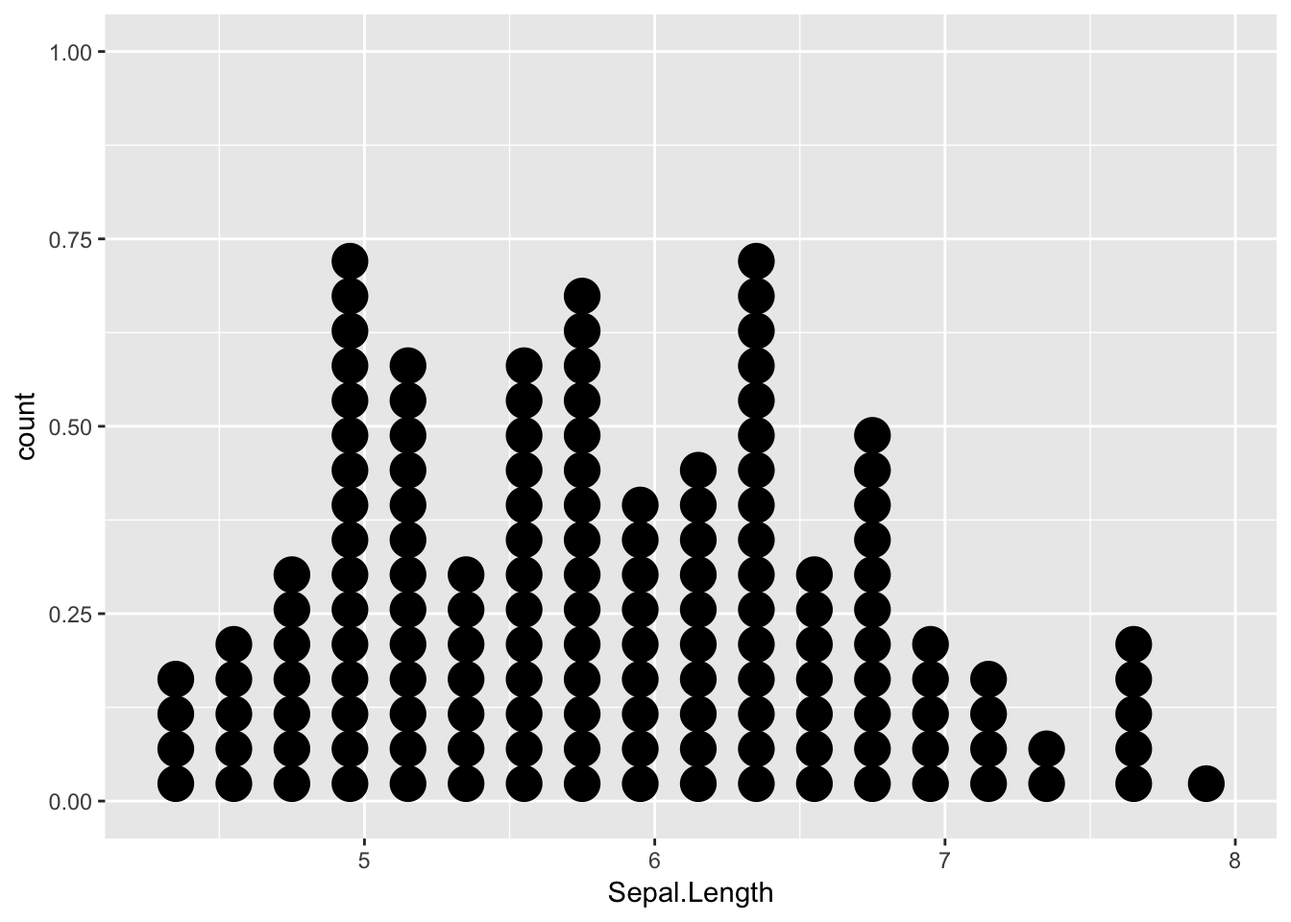
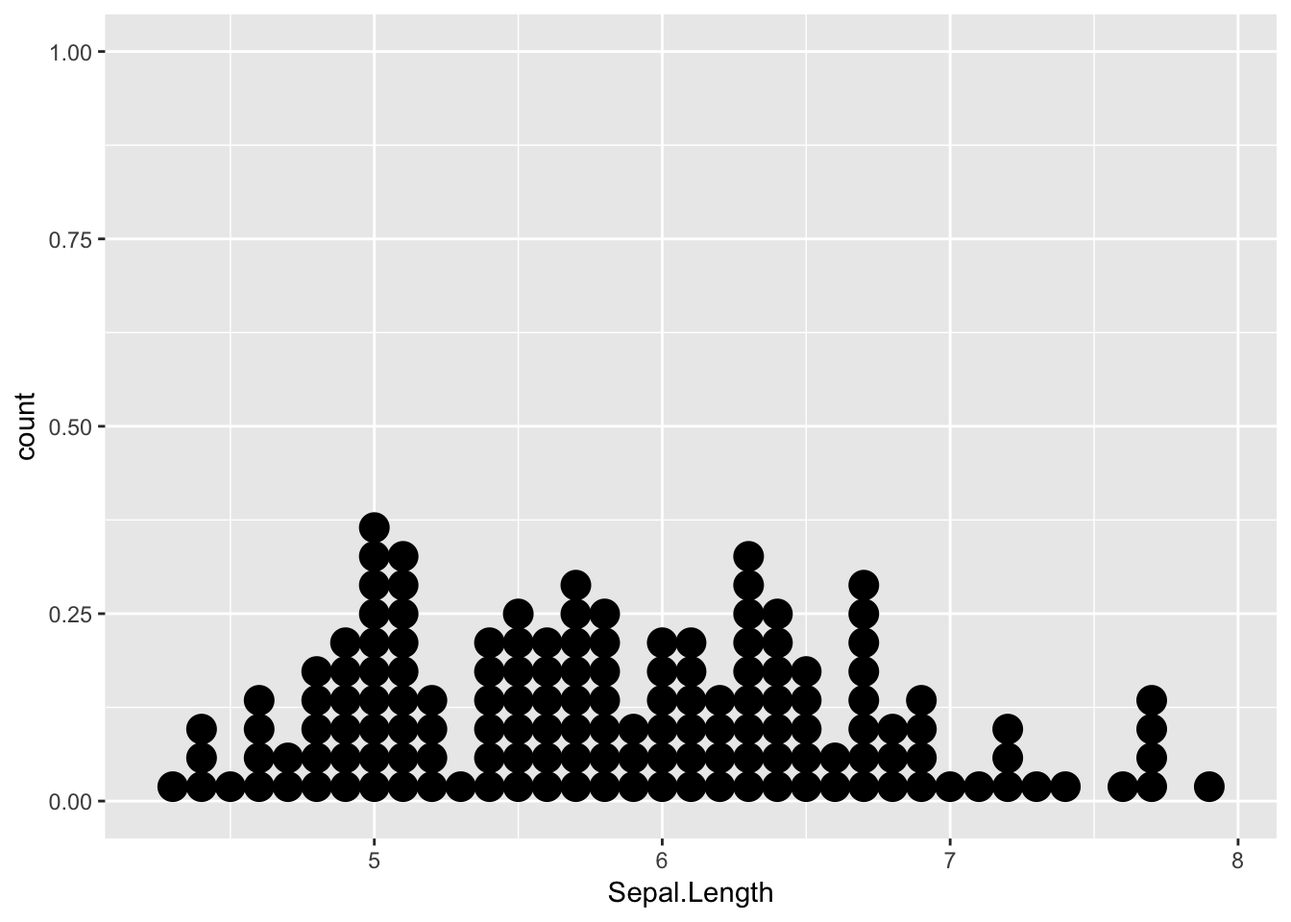
Update graphs.

diff --git a/docs/graphs.html b/docs/graphs.html
@@ -25,7 +25,7 @@
 <meta name="author" content="Lehman Sociology">
 
 
-<meta name="date" content="2017-10-18">
+<meta name="date" content="2017-10-19">
 
   <meta name="viewport" content="width=device-width, initial-scale=1">
   <meta name="apple-mobile-web-app-capable" content="yes">
@@ -130,8 +130,8 @@ code > span.in { color: #60a0b0; font-weight: bold; font-style: italic; } /* Inf
 <li class="chapter" data-level="6" data-path="graphs.html"><a href="graphs.html"><i class="fa fa-check"></i><b>6</b> Graphs</a><ul>
 <li class="chapter" data-level="6.1" data-path="graphs.html"><a href="graphs.html#how-ggplot-works"><i class="fa fa-check"></i><b>6.1</b> How ggplot works</a><ul>
 <li class="chapter" data-level="6.1.1" data-path="graphs.html"><a href="graphs.html#ggplot"><i class="fa fa-check"></i><b>6.1.1</b> ggplot()</a></li>
-<li class="chapter" data-level="6.1.2" data-path="graphs.html"><a href="graphs.html#adding-geom_s"><i class="fa fa-check"></i><b>6.1.2</b> Adding geom_s</a></li>
-<li class="chapter" data-level="6.1.3" data-path="graphs.html"><a href="graphs.html#add-titles-and-labels"><i class="fa fa-check"></i><b>6.1.3</b> Add titles and labels</a></li>
+<li class="chapter" data-level="6.1.2" data-path="graphs.html"><a href="graphs.html#adding-geom"><i class="fa fa-check"></i><b>6.1.2</b> Adding geom</a></li>
+<li class="chapter" data-level="6.1.3" data-path="graphs.html"><a href="graphs.html#add-titles-and-labels-modify-axes"><i class="fa fa-check"></i><b>6.1.3</b> Add titles and labels, modify axes</a></li>
 </ul></li>
 <li class="chapter" data-level="6.2" data-path="graphs.html"><a href="graphs.html#common-problems"><i class="fa fa-check"></i><b>6.2</b> Common problems</a><ul>
 <li class="chapter" data-level="6.2.1" data-path="graphs.html"><a href="graphs.html#unexpected-symbol"><i class="fa fa-check"></i><b>6.2.1</b> unexpected symbol</a></li>
@@ -180,16 +180,15 @@ code > span.in { color: #60a0b0; font-weight: bold; font-style: italic; } /* Inf
 <div class="sourceCode"><pre class="sourceCode r"><code class="sourceCode r"><span class="kw">ggplot</span>(iris, <span class="kw">aes</span>(<span class="dt">x =</span> Species, <span class="dt">y =</span> Sepal.Width))</code></pre></div>
 <p><img src="06-Graphs_files/figure-html/unnamed-chunk-1-3.png" width="672" /></p>
 </div>
-<div id="adding-geom_s" class="section level3">
-<h3><span class="header-section-number">6.1.2</span> Adding geom_s</h3>
+<div id="adding-geom" class="section level3">
+<h3><span class="header-section-number">6.1.2</span> Adding geom</h3>
 <p>To add data to the axes you use a “geom” that determines the type of display. The geom does not modify the axis, it adds data to it. To show this, let’s save the ggplot information and add to it.</p>
-<p>Our first example is only for one variable.</p>
+<p>Our first example is only for one variable. Often, you will want to add options such as binwidth.</p>
 <div class="sourceCode"><pre class="sourceCode r"><code class="sourceCode r">graph1 &lt;-<span class="st"> </span><span class="kw">ggplot</span>(iris, <span class="kw">aes</span>(<span class="dt">x =</span> Sepal.Length))  
 graph1 +<span class="st"> </span><span class="kw">geom_histogram</span>()</code></pre></div>
 <pre><code>## `stat_bin()` using `bins = 30`. Pick better value with `binwidth`.</code></pre>
 <p><img src="06-Graphs_files/figure-html/unnamed-chunk-2-1.png" width="672" /></p>
-<div class="sourceCode"><pre class="sourceCode r"><code class="sourceCode r">graph1 +<span class="st"> </span><span class="kw">geom_dotplot</span>()</code></pre></div>
-<pre><code>## `stat_bindot()` using `bins = 30`. Pick better value with `binwidth`.</code></pre>
+<div class="sourceCode"><pre class="sourceCode r"><code class="sourceCode r">graph1 +<span class="st"> </span><span class="kw">geom_dotplot</span>(<span class="dt">binwidth =</span> .<span class="dv">1</span>)</code></pre></div>
 <p><img src="06-Graphs_files/figure-html/unnamed-chunk-2-2.png" width="672" /></p>
 <div class="sourceCode"><pre class="sourceCode r"><code class="sourceCode r">graph1 +<span class="st"> </span><span class="kw">geom_bar</span>()</code></pre></div>
 <p><img src="06-Graphs_files/figure-html/unnamed-chunk-2-3.png" width="672" /></p>
@@ -203,25 +202,38 @@ graph2 +<span class="st"> </span><span class="kw">geom_point</span>()</code></pr
 <div class="sourceCode"><pre class="sourceCode r"><code class="sourceCode r">graph2 +<span class="st"> </span><span class="kw">geom_point</span>() +<span class="st"> </span><span class="kw">geom_smooth</span>()</code></pre></div>
 <pre><code>## `geom_smooth()` using method = &#39;loess&#39;</code></pre>
 <p><img src="06-Graphs_files/figure-html/unnamed-chunk-3-2.png" width="672" /></p>
+<div class="sourceCode"><pre class="sourceCode r"><code class="sourceCode r">graph2_with_species &lt;-<span class="st"> </span><span class="kw">ggplot</span>(iris, <span class="kw">aes</span>(<span class="dt">x =</span> Sepal.Length, <span class="dt">y =</span> Sepal.Width, <span class="dt">color =</span> Species)) +<span class="st"> </span><span class="kw">geom_point</span>()
+graph2_with_species</code></pre></div>
+<p><img src="06-Graphs_files/figure-html/unnamed-chunk-3-3.png" width="672" /></p>
 <p>This data includes two types of data. The last example shows how multiple geoms can be combined.</p>
 <div class="sourceCode"><pre class="sourceCode r"><code class="sourceCode r">graph3 &lt;-<span class="st"> </span><span class="kw">ggplot</span>(iris, <span class="kw">aes</span>(<span class="dt">x =</span> Species, <span class="dt">y =</span> Sepal.Width))
 
 graph3 +<span class="st"> </span><span class="kw">geom_point</span>()</code></pre></div>
 <p><img src="06-Graphs_files/figure-html/unnamed-chunk-4-1.png" width="672" /></p>
-<div class="sourceCode"><pre class="sourceCode r"><code class="sourceCode r">graph3 +<span class="st"> </span><span class="kw">geom_jitter</span>()</code></pre></div>
+<div class="sourceCode"><pre class="sourceCode r"><code class="sourceCode r">graph3 +<span class="st"> </span><span class="kw">geom_count</span>()</code></pre></div>
 <p><img src="06-Graphs_files/figure-html/unnamed-chunk-4-2.png" width="672" /></p>
-<div class="sourceCode"><pre class="sourceCode r"><code class="sourceCode r">graph3 +<span class="st"> </span><span class="kw">geom_boxplot</span>()</code></pre></div>
+<div class="sourceCode"><pre class="sourceCode r"><code class="sourceCode r">graph3 +<span class="st"> </span><span class="kw">geom_jitter</span>()</code></pre></div>
 <p><img src="06-Graphs_files/figure-html/unnamed-chunk-4-3.png" width="672" /></p>
-<div class="sourceCode"><pre class="sourceCode r"><code class="sourceCode r">graph3 +<span class="st"> </span><span class="kw">geom_boxplot</span>() +<span class="st"> </span><span class="kw">geom_jitter</span>()</code></pre></div>
+<div class="sourceCode"><pre class="sourceCode r"><code class="sourceCode r">graph3 +<span class="st"> </span><span class="kw">geom_boxplot</span>()</code></pre></div>
 <p><img src="06-Graphs_files/figure-html/unnamed-chunk-4-4.png" width="672" /></p>
+<div class="sourceCode"><pre class="sourceCode r"><code class="sourceCode r">graph3 +<span class="st"> </span><span class="kw">geom_boxplot</span>() +<span class="st"> </span><span class="kw">geom_jitter</span>()</code></pre></div>
+<p><img src="06-Graphs_files/figure-html/unnamed-chunk-4-5.png" width="672" /></p>
 </div>
-<div id="add-titles-and-labels" class="section level3">
-<h3><span class="header-section-number">6.1.3</span> Add titles and labels</h3>
-<p>There are many additional options that you can use. This document will just show how to add a title and labels.</p>
+<div id="add-titles-and-labels-modify-axes" class="section level3">
+<h3><span class="header-section-number">6.1.3</span> Add titles and labels, modify axes</h3>
+<p>There are many additional options that you can use. This document will just show how to add a title and labels and modify axes.</p>
 <div class="sourceCode"><pre class="sourceCode r"><code class="sourceCode r">graph3 +<span class="st"> </span><span class="kw">geom_jitter</span>() +
 <span class="st">        </span><span class="kw">ggtitle</span>(<span class="st">&quot;Sepal Width by Species in the Iris Data&quot;</span>) +
 <span class="st">        </span><span class="kw">labs</span>(<span class="dt">y=</span><span class="st">&quot;Sepal Width&quot;</span>, <span class="dt">x=</span><span class="st">&quot;Iris Species&quot;</span>)  </code></pre></div>
 <p><img src="06-Graphs_files/figure-html/unnamed-chunk-5-1.png" width="672" /></p>
+<p>The way to modify axes is to use <code>scale_y_continuous</code> and <code>scale_x_continuous</code>. These are very flexible and have many options. This section will show how to change or improve some of the previous plots.</p>
+<div class="sourceCode"><pre class="sourceCode r"><code class="sourceCode r"><span class="co"># Remove irrelevant y axis values</span>
+graph1 +<span class="st"> </span><span class="kw">geom_dotplot</span>(<span class="dt">binwidth =</span> .<span class="dv">1</span>) +
+<span class="st">         </span><span class="kw">scale_y_continuous</span>(<span class="ot">NULL</span>, <span class="dt">breaks =</span> <span class="ot">NULL</span>)</code></pre></div>
+<p><img src="06-Graphs_files/figure-html/unnamed-chunk-6-1.png" width="672" /></p>
+<div class="sourceCode"><pre class="sourceCode r"><code class="sourceCode r"><span class="co"># Use the same tick marks on the x axis match those on the y axis</span>
+graph2 +<span class="st"> </span><span class="kw">geom_point</span>() +<span class="st"> </span><span class="kw">scale_x_continuous</span>( <span class="dt">breaks =</span> <span class="kw">seq</span>(<span class="dv">4</span>, <span class="dv">8</span>, .<span class="dv">5</span>), <span class="dt">minor_breaks =</span> <span class="kw">waiver</span>())</code></pre></div>
+<p><img src="06-Graphs_files/figure-html/unnamed-chunk-6-2.png" width="672" /></p>
 <p>There are several websites that give detailed examples of more complex ways to create visualizations.</p>
 </div>
 </div>

diff --git a/docs/index.html b/docs/index.html
@@ -25,7 +25,7 @@
 <meta name="author" content="Lehman Sociology">
 
 
-<meta name="date" content="2017-10-18">
+<meta name="date" content="2017-10-19">
 
   <meta name="viewport" content="width=device-width, initial-scale=1">
   <meta name="apple-mobile-web-app-capable" content="yes">
@@ -130,8 +130,8 @@ code > span.in { color: #60a0b0; font-weight: bold; font-style: italic; } /* Inf
 <li class="chapter" data-level="6" data-path="graphs.html"><a href="graphs.html"><i class="fa fa-check"></i><b>6</b> Graphs</a><ul>
 <li class="chapter" data-level="6.1" data-path="graphs.html"><a href="graphs.html#how-ggplot-works"><i class="fa fa-check"></i><b>6.1</b> How ggplot works</a><ul>
 <li class="chapter" data-level="6.1.1" data-path="graphs.html"><a href="graphs.html#ggplot"><i class="fa fa-check"></i><b>6.1.1</b> ggplot()</a></li>
-<li class="chapter" data-level="6.1.2" data-path="graphs.html"><a href="graphs.html#adding-geom_s"><i class="fa fa-check"></i><b>6.1.2</b> Adding geom_s</a></li>
-<li class="chapter" data-level="6.1.3" data-path="graphs.html"><a href="graphs.html#add-titles-and-labels"><i class="fa fa-check"></i><b>6.1.3</b> Add titles and labels</a></li>
+<li class="chapter" data-level="6.1.2" data-path="graphs.html"><a href="graphs.html#adding-geom"><i class="fa fa-check"></i><b>6.1.2</b> Adding geom</a></li>
+<li class="chapter" data-level="6.1.3" data-path="graphs.html"><a href="graphs.html#add-titles-and-labels-modify-axes"><i class="fa fa-check"></i><b>6.1.3</b> Add titles and labels, modify axes</a></li>
 </ul></li>
 <li class="chapter" data-level="6.2" data-path="graphs.html"><a href="graphs.html#common-problems"><i class="fa fa-check"></i><b>6.2</b> Common problems</a><ul>
 <li class="chapter" data-level="6.2.1" data-path="graphs.html"><a href="graphs.html#unexpected-symbol"><i class="fa fa-check"></i><b>6.2.1</b> unexpected symbol</a></li>
@@ -163,7 +163,7 @@ code > span.in { color: #60a0b0; font-weight: bold; font-style: italic; } /* Inf
 <div id="header">
 <h1 class="title">A Little R Book for Lehman Sociology Students</h1>
 <h4 class="author"><em>Lehman Sociology</em></h4>
-<h4 class="date"><em>2017-10-18</em></h4>
+<h4 class="date"><em>2017-10-19</em></h4>
 </div>
 <div id="preface" class="section level1 unnumbered">
 <h1>Preface</h1>

diff --git a/docs/code.html b/docs/code.html
@@ -25,7 +25,7 @@
 <meta name="author" content="Lehman Sociology">
 
 
-<meta name="date" content="2017-10-18">
+<meta name="date" content="2017-10-19">
 
   <meta name="viewport" content="width=device-width, initial-scale=1">
   <meta name="apple-mobile-web-app-capable" content="yes">
@@ -130,8 +130,8 @@ code > span.in { color: #60a0b0; font-weight: bold; font-style: italic; } /* Inf
 <li class="chapter" data-level="6" data-path="graphs.html"><a href="graphs.html"><i class="fa fa-check"></i><b>6</b> Graphs</a><ul>
 <li class="chapter" data-level="6.1" data-path="graphs.html"><a href="graphs.html#how-ggplot-works"><i class="fa fa-check"></i><b>6.1</b> How ggplot works</a><ul>
 <li class="chapter" data-level="6.1.1" data-path="graphs.html"><a href="graphs.html#ggplot"><i class="fa fa-check"></i><b>6.1.1</b> ggplot()</a></li>
-<li class="chapter" data-level="6.1.2" data-path="graphs.html"><a href="graphs.html#adding-geom_s"><i class="fa fa-check"></i><b>6.1.2</b> Adding geom_s</a></li>
-<li class="chapter" data-level="6.1.3" data-path="graphs.html"><a href="graphs.html#add-titles-and-labels"><i class="fa fa-check"></i><b>6.1.3</b> Add titles and labels</a></li>
+<li class="chapter" data-level="6.1.2" data-path="graphs.html"><a href="graphs.html#adding-geom"><i class="fa fa-check"></i><b>6.1.2</b> Adding geom</a></li>
+<li class="chapter" data-level="6.1.3" data-path="graphs.html"><a href="graphs.html#add-titles-and-labels-modify-axes"><i class="fa fa-check"></i><b>6.1.3</b> Add titles and labels, modify axes</a></li>
 </ul></li>
 <li class="chapter" data-level="6.2" data-path="graphs.html"><a href="graphs.html#common-problems"><i class="fa fa-check"></i><b>6.2</b> Common problems</a><ul>
 <li class="chapter" data-level="6.2.1" data-path="graphs.html"><a href="graphs.html#unexpected-symbol"><i class="fa fa-check"></i><b>6.2.1</b> unexpected symbol</a></li>

diff --git a/docs/errors.html b/docs/errors.html
@@ -25,7 +25,7 @@
 <meta name="author" content="Lehman Sociology">
 
 
-<meta name="date" content="2017-10-18">
+<meta name="date" content="2017-10-19">
 
   <meta name="viewport" content="width=device-width, initial-scale=1">
   <meta name="apple-mobile-web-app-capable" content="yes">
@@ -130,8 +130,8 @@ code > span.in { color: #60a0b0; font-weight: bold; font-style: italic; } /* Inf
 <li class="chapter" data-level="6" data-path="graphs.html"><a href="graphs.html"><i class="fa fa-check"></i><b>6</b> Graphs</a><ul>
 <li class="chapter" data-level="6.1" data-path="graphs.html"><a href="graphs.html#how-ggplot-works"><i class="fa fa-check"></i><b>6.1</b> How ggplot works</a><ul>
 <li class="chapter" data-level="6.1.1" data-path="graphs.html"><a href="graphs.html#ggplot"><i class="fa fa-check"></i><b>6.1.1</b> ggplot()</a></li>
-<li class="chapter" data-level="6.1.2" data-path="graphs.html"><a href="graphs.html#adding-geom_s"><i class="fa fa-check"></i><b>6.1.2</b> Adding geom_s</a></li>
-<li class="chapter" data-level="6.1.3" data-path="graphs.html"><a href="graphs.html#add-titles-and-labels"><i class="fa fa-check"></i><b>6.1.3</b> Add titles and labels</a></li>
+<li class="chapter" data-level="6.1.2" data-path="graphs.html"><a href="graphs.html#adding-geom"><i class="fa fa-check"></i><b>6.1.2</b> Adding geom</a></li>
+<li class="chapter" data-level="6.1.3" data-path="graphs.html"><a href="graphs.html#add-titles-and-labels-modify-axes"><i class="fa fa-check"></i><b>6.1.3</b> Add titles and labels, modify axes</a></li>
 </ul></li>
 <li class="chapter" data-level="6.2" data-path="graphs.html"><a href="graphs.html#common-problems"><i class="fa fa-check"></i><b>6.2</b> Common problems</a><ul>
 <li class="chapter" data-level="6.2.1" data-path="graphs.html"><a href="graphs.html#unexpected-symbol"><i class="fa fa-check"></i><b>6.2.1</b> unexpected symbol</a></li>

diff --git a/docs/introduction.html b/docs/introduction.html
@@ -25,7 +25,7 @@
 <meta name="author" content="Lehman Sociology">
 
 
-<meta name="date" content="2017-10-18">
+<meta name="date" content="2017-10-19">
 
   <meta name="viewport" content="width=device-width, initial-scale=1">
   <meta name="apple-mobile-web-app-capable" content="yes">
@@ -130,8 +130,8 @@ code > span.in { color: #60a0b0; font-weight: bold; font-style: italic; } /* Inf
 <li class="chapter" data-level="6" data-path="graphs.html"><a href="graphs.html"><i class="fa fa-check"></i><b>6</b> Graphs</a><ul>
 <li class="chapter" data-level="6.1" data-path="graphs.html"><a href="graphs.html#how-ggplot-works"><i class="fa fa-check"></i><b>6.1</b> How ggplot works</a><ul>
 <li class="chapter" data-level="6.1.1" data-path="graphs.html"><a href="graphs.html#ggplot"><i class="fa fa-check"></i><b>6.1.1</b> ggplot()</a></li>
-<li class="chapter" data-level="6.1.2" data-path="graphs.html"><a href="graphs.html#adding-geom_s"><i class="fa fa-check"></i><b>6.1.2</b> Adding geom_s</a></li>
-<li class="chapter" data-level="6.1.3" data-path="graphs.html"><a href="graphs.html#add-titles-and-labels"><i class="fa fa-check"></i><b>6.1.3</b> Add titles and labels</a></li>
+<li class="chapter" data-level="6.1.2" data-path="graphs.html"><a href="graphs.html#adding-geom"><i class="fa fa-check"></i><b>6.1.2</b> Adding geom</a></li>
+<li class="chapter" data-level="6.1.3" data-path="graphs.html"><a href="graphs.html#add-titles-and-labels-modify-axes"><i class="fa fa-check"></i><b>6.1.3</b> Add titles and labels, modify axes</a></li>
 </ul></li>
 <li class="chapter" data-level="6.2" data-path="graphs.html"><a href="graphs.html#common-problems"><i class="fa fa-check"></i><b>6.2</b> Common problems</a><ul>
 <li class="chapter" data-level="6.2.1" data-path="graphs.html"><a href="graphs.html#unexpected-symbol"><i class="fa fa-check"></i><b>6.2.1</b> unexpected symbol</a></li>

diff --git a/docs/other.html b/docs/other.html
@@ -25,7 +25,7 @@
 <meta name="author" content="Lehman Sociology">
 
 
-<meta name="date" content="2017-10-18">
+<meta name="date" content="2017-10-19">
 
   <meta name="viewport" content="width=device-width, initial-scale=1">
   <meta name="apple-mobile-web-app-capable" content="yes">
@@ -130,8 +130,8 @@ code > span.in { color: #60a0b0; font-weight: bold; font-style: italic; } /* Inf
 <li class="chapter" data-level="6" data-path="graphs.html"><a href="graphs.html"><i class="fa fa-check"></i><b>6</b> Graphs</a><ul>
 <li class="chapter" data-level="6.1" data-path="graphs.html"><a href="graphs.html#how-ggplot-works"><i class="fa fa-check"></i><b>6.1</b> How ggplot works</a><ul>
 <li class="chapter" data-level="6.1.1" data-path="graphs.html"><a href="graphs.html#ggplot"><i class="fa fa-check"></i><b>6.1.1</b> ggplot()</a></li>
-<li class="chapter" data-level="6.1.2" data-path="graphs.html"><a href="graphs.html#adding-geom_s"><i class="fa fa-check"></i><b>6.1.2</b> Adding geom_s</a></li>
-<li class="chapter" data-level="6.1.3" data-path="graphs.html"><a href="graphs.html#add-titles-and-labels"><i class="fa fa-check"></i><b>6.1.3</b> Add titles and labels</a></li>
+<li class="chapter" data-level="6.1.2" data-path="graphs.html"><a href="graphs.html#adding-geom"><i class="fa fa-check"></i><b>6.1.2</b> Adding geom</a></li>
+<li class="chapter" data-level="6.1.3" data-path="graphs.html"><a href="graphs.html#add-titles-and-labels-modify-axes"><i class="fa fa-check"></i><b>6.1.3</b> Add titles and labels, modify axes</a></li>
 </ul></li>
 <li class="chapter" data-level="6.2" data-path="graphs.html"><a href="graphs.html#common-problems"><i class="fa fa-check"></i><b>6.2</b> Common problems</a><ul>
 <li class="chapter" data-level="6.2.1" data-path="graphs.html"><a href="graphs.html#unexpected-symbol"><i class="fa fa-check"></i><b>6.2.1</b> unexpected symbol</a></li>

diff --git a/docs/statistical-functions-for-one-variable.html b/docs/statistical-functions-for-one-variable.html
@@ -25,7 +25,7 @@
 <meta name="author" content="Lehman Sociology">
 
 
-<meta name="date" content="2017-10-18">
+<meta name="date" content="2017-10-19">
 
   <meta name="viewport" content="width=device-width, initial-scale=1">
   <meta name="apple-mobile-web-app-capable" content="yes">
@@ -130,8 +130,8 @@ code > span.in { color: #60a0b0; font-weight: bold; font-style: italic; } /* Inf
 <li class="chapter" data-level="6" data-path="graphs.html"><a href="graphs.html"><i class="fa fa-check"></i><b>6</b> Graphs</a><ul>
 <li class="chapter" data-level="6.1" data-path="graphs.html"><a href="graphs.html#how-ggplot-works"><i class="fa fa-check"></i><b>6.1</b> How ggplot works</a><ul>
 <li class="chapter" data-level="6.1.1" data-path="graphs.html"><a href="graphs.html#ggplot"><i class="fa fa-check"></i><b>6.1.1</b> ggplot()</a></li>
-<li class="chapter" data-level="6.1.2" data-path="graphs.html"><a href="graphs.html#adding-geom_s"><i class="fa fa-check"></i><b>6.1.2</b> Adding geom_s</a></li>
-<li class="chapter" data-level="6.1.3" data-path="graphs.html"><a href="graphs.html#add-titles-and-labels"><i class="fa fa-check"></i><b>6.1.3</b> Add titles and labels</a></li>
+<li class="chapter" data-level="6.1.2" data-path="graphs.html"><a href="graphs.html#adding-geom"><i class="fa fa-check"></i><b>6.1.2</b> Adding geom</a></li>
+<li class="chapter" data-level="6.1.3" data-path="graphs.html"><a href="graphs.html#add-titles-and-labels-modify-axes"><i class="fa fa-check"></i><b>6.1.3</b> Add titles and labels, modify axes</a></li>
 </ul></li>
 <li class="chapter" data-level="6.2" data-path="graphs.html"><a href="graphs.html#common-problems"><i class="fa fa-check"></i><b>6.2</b> Common problems</a><ul>
 <li class="chapter" data-level="6.2.1" data-path="graphs.html"><a href="graphs.html#unexpected-symbol"><i class="fa fa-check"></i><b>6.2.1</b> unexpected symbol</a></li>

diff --git a/docs/statistics-for-multiple-variables.html b/docs/statistics-for-multiple-variables.html
@@ -25,7 +25,7 @@
 <meta name="author" content="Lehman Sociology">
 
 
-<meta name="date" content="2017-10-18">
+<meta name="date" content="2017-10-19">
 
   <meta name="viewport" content="width=device-width, initial-scale=1">
   <meta name="apple-mobile-web-app-capable" content="yes">
@@ -130,8 +130,8 @@ code > span.in { color: #60a0b0; font-weight: bold; font-style: italic; } /* Inf
 <li class="chapter" data-level="6" data-path="graphs.html"><a href="graphs.html"><i class="fa fa-check"></i><b>6</b> Graphs</a><ul>
 <li class="chapter" data-level="6.1" data-path="graphs.html"><a href="graphs.html#how-ggplot-works"><i class="fa fa-check"></i><b>6.1</b> How ggplot works</a><ul>
 <li class="chapter" data-level="6.1.1" data-path="graphs.html"><a href="graphs.html#ggplot"><i class="fa fa-check"></i><b>6.1.1</b> ggplot()</a></li>
-<li class="chapter" data-level="6.1.2" data-path="graphs.html"><a href="graphs.html#adding-geom_s"><i class="fa fa-check"></i><b>6.1.2</b> Adding geom_s</a></li>
-<li class="chapter" data-level="6.1.3" data-path="graphs.html"><a href="graphs.html#add-titles-and-labels"><i class="fa fa-check"></i><b>6.1.3</b> Add titles and labels</a></li>
+<li class="chapter" data-level="6.1.2" data-path="graphs.html"><a href="graphs.html#adding-geom"><i class="fa fa-check"></i><b>6.1.2</b> Adding geom</a></li>
+<li class="chapter" data-level="6.1.3" data-path="graphs.html"><a href="graphs.html#add-titles-and-labels-modify-axes"><i class="fa fa-check"></i><b>6.1.3</b> Add titles and labels, modify axes</a></li>
 </ul></li>
 <li class="chapter" data-level="6.2" data-path="graphs.html"><a href="graphs.html#common-problems"><i class="fa fa-check"></i><b>6.2</b> Common problems</a><ul>
 <li class="chapter" data-level="6.2.1" data-path="graphs.html"><a href="graphs.html#unexpected-symbol"><i class="fa fa-check"></i><b>6.2.1</b> unexpected symbol</a></li>

diff --git a/docs/06-Graphs.md b/docs/06-Graphs.md
@@ -40,11 +40,11 @@ ggplot(iris, aes(x = Species, y = Sepal.Width))
 
 <img src="06-Graphs_files/figure-html/unnamed-chunk-1-3.png" width="672" />
 
-### Adding geom_s
+### Adding geom 
 To add data to the axes you use a "geom" that determines the type of display.  The geom does not modify the
 axis, it adds data to it. To show this, let's save the ggplot information and add to it.
 
-Our first example is only for one variable.
+Our first example is only for one variable.  Often, you will want to add options such as binwidth.
 
 
 ```r
@@ -59,11 +59,7 @@ graph1 + geom_histogram()
 <img src="06-Graphs_files/figure-html/unnamed-chunk-2-1.png" width="672" />
 
 ```r
-graph1 + geom_dotplot()
-```
-
-```
-## `stat_bindot()` using `bins = 30`. Pick better value with `binwidth`.
+graph1 + geom_dotplot(binwidth = .1)
 ```
 
 <img src="06-Graphs_files/figure-html/unnamed-chunk-2-2.png" width="672" />
@@ -102,6 +98,13 @@ graph2 + geom_point() + geom_smooth()
 
 <img src="06-Graphs_files/figure-html/unnamed-chunk-3-2.png" width="672" />
 
+```r
+graph2_with_species <- ggplot(iris, aes(x = Sepal.Length, y = Sepal.Width, color = Species)) + geom_point()
+graph2_with_species
+```
+
+<img src="06-Graphs_files/figure-html/unnamed-chunk-3-3.png" width="672" />
+
 This data includes two types of data.  The last example shows how multiple geoms can be combined.
 
 
@@ -114,26 +117,33 @@ graph3 + geom_point()
 <img src="06-Graphs_files/figure-html/unnamed-chunk-4-1.png" width="672" />
 
 ```r
-graph3 + geom_jitter()
+graph3 + geom_count()
 ```
 
 <img src="06-Graphs_files/figure-html/unnamed-chunk-4-2.png" width="672" />
 
 ```r
-graph3 + geom_boxplot()
+graph3 + geom_jitter()
 ```
 
 <img src="06-Graphs_files/figure-html/unnamed-chunk-4-3.png" width="672" />
 
 ```r
-graph3 + geom_boxplot() + geom_jitter()
+graph3 + geom_boxplot()
 ```
 
 <img src="06-Graphs_files/figure-html/unnamed-chunk-4-4.png" width="672" />
 
-### Add titles and labels
+```r
+graph3 + geom_boxplot() + geom_jitter()
+```
+
+<img src="06-Graphs_files/figure-html/unnamed-chunk-4-5.png" width="672" />
+
+### Add titles and labels, modify axes
+
 There are many additional options that you can use. This document will just show how to add a title
-and labels.
+and labels and modify axes.
 
 ```r
 graph3 + geom_jitter() +
@@ -143,6 +153,24 @@ graph3 + geom_jitter() +
 
 <img src="06-Graphs_files/figure-html/unnamed-chunk-5-1.png" width="672" />
 
+The way to modify axes is to use `scale_y_continuous` and `scale_x_continuous`.  These are very flexible and 
+have many options. This section will show how to change or improve some of the previous plots.
+
+
+```r
+# Remove irrelevant y axis values
+graph1 + geom_dotplot(binwidth = .1) +
+         scale_y_continuous(NULL, breaks = NULL)
+```
+
+<img src="06-Graphs_files/figure-html/unnamed-chunk-6-1.png" width="672" />
+
+```r
+# Use the same tick marks on the x axis match those on the y axis
+graph2 + geom_point() + scale_x_continuous( breaks = seq(4, 8, .5), minor_breaks = waiver())
+```
+
+<img src="06-Graphs_files/figure-html/unnamed-chunk-6-2.png" width="672" />
 
 
  There are several websites that give detailed examples of more complex ways to create visualizations. 

diff --git a/docs/index.md b/docs/index.md
@@ -1,7 +1,7 @@
 --- 
 title: "A Little R Book for Lehman Sociology Students"
 author: "Lehman Sociology"
-date: "2017-10-18"
+date: "2017-10-19"
 site: bookdown::bookdown_site
 documentclass: book
 bibliography: [book.bib]
